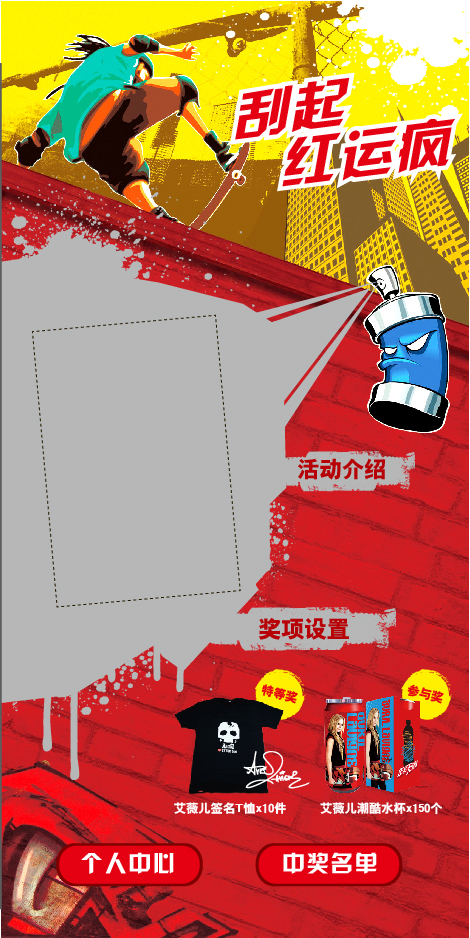
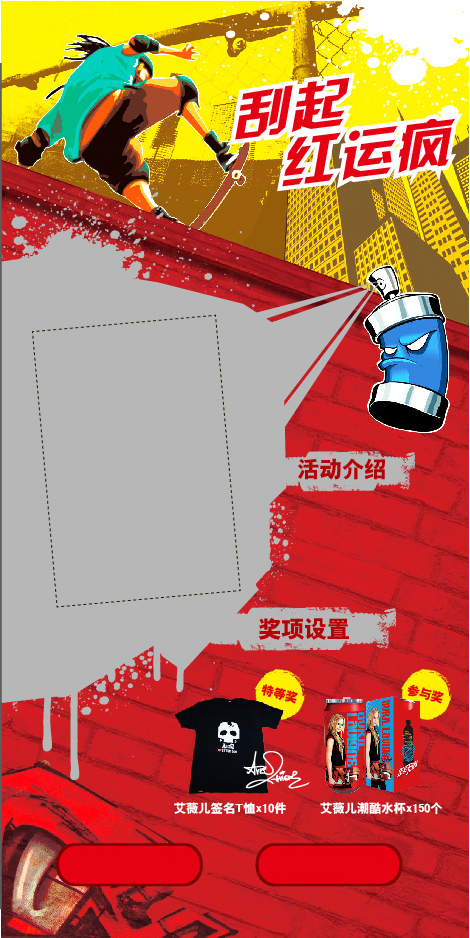
'm'

Changed region(s): [[0.5957, 0.8966, 0.8043, 0.9584], [0.1787, 0.8966, 0.3872, 0.9584]]

diff --git a/test.html b/test.html
@@ -117,7 +117,7 @@ img{
 }
 .gua_area {
     cursor: pointer;
-    height: 47%;
+    height: 40%;
     position: absolute;
     top: 32%;
     width: 44.3%;
@@ -129,11 +129,37 @@ audio, canvas, video {
 .compain_detail{
     height: 20%;
     position: absolute;
-    top: 52.9%;
+    top: 54.7%;
     width: 39%;
 	right:1%;
     font-size:12px;
 	color:#FFF;
+}
+.detail{
+	cursor: pointer;
+    height:10%;
+    position: absolute;
+    top: 57.7%;
+    width: 18%;
+	right:1%;
+}
+.user{
+	cursor: pointer;
+	height:17%;
+    position: absolute;
+    top: 89.2%;
+    width: 32%;
+	left:12%;
+	
+}
+.win{
+	cursor: pointer;
+	height:17%;
+    position: absolute;
+    top: 89.2%;
+    width: 32%;
+	right:13.7%;
+	
 }
 
 </style>
@@ -144,7 +170,7 @@ audio, canvas, video {
 <div id="pagewrap">
 
 	<div id="content">
-        <img class="gua_bj01" src="bg.jpg" />
+        <img class="gua_bj01" src="bg.jpg"  />
           <div class="gua_area" >
              <canvas id="canvas" class="gua_canvas" style="position: absolute; background-image: url(gua.png);" width="209" height="316"></canvas>
             </div>
@@ -160,6 +186,15 @@ audio, canvas, video {
                亲爱的活动，我们要开 
                亲爱的活动，我们要开 
                亲爱的活动，我们要开 
+           </div>
+          <div class="detail" >
+              <a href="http://www.baidu.com"><img class="gua_bj01" src="detail.png" /></a>
+           </div>
+           <div class="user" >
+              <img class="gua_bj01" src="user.png" />
+           </div>
+           <div class="win" >
+             <img class="gua_bj01" src="win.png" />
            </div>
     
     
